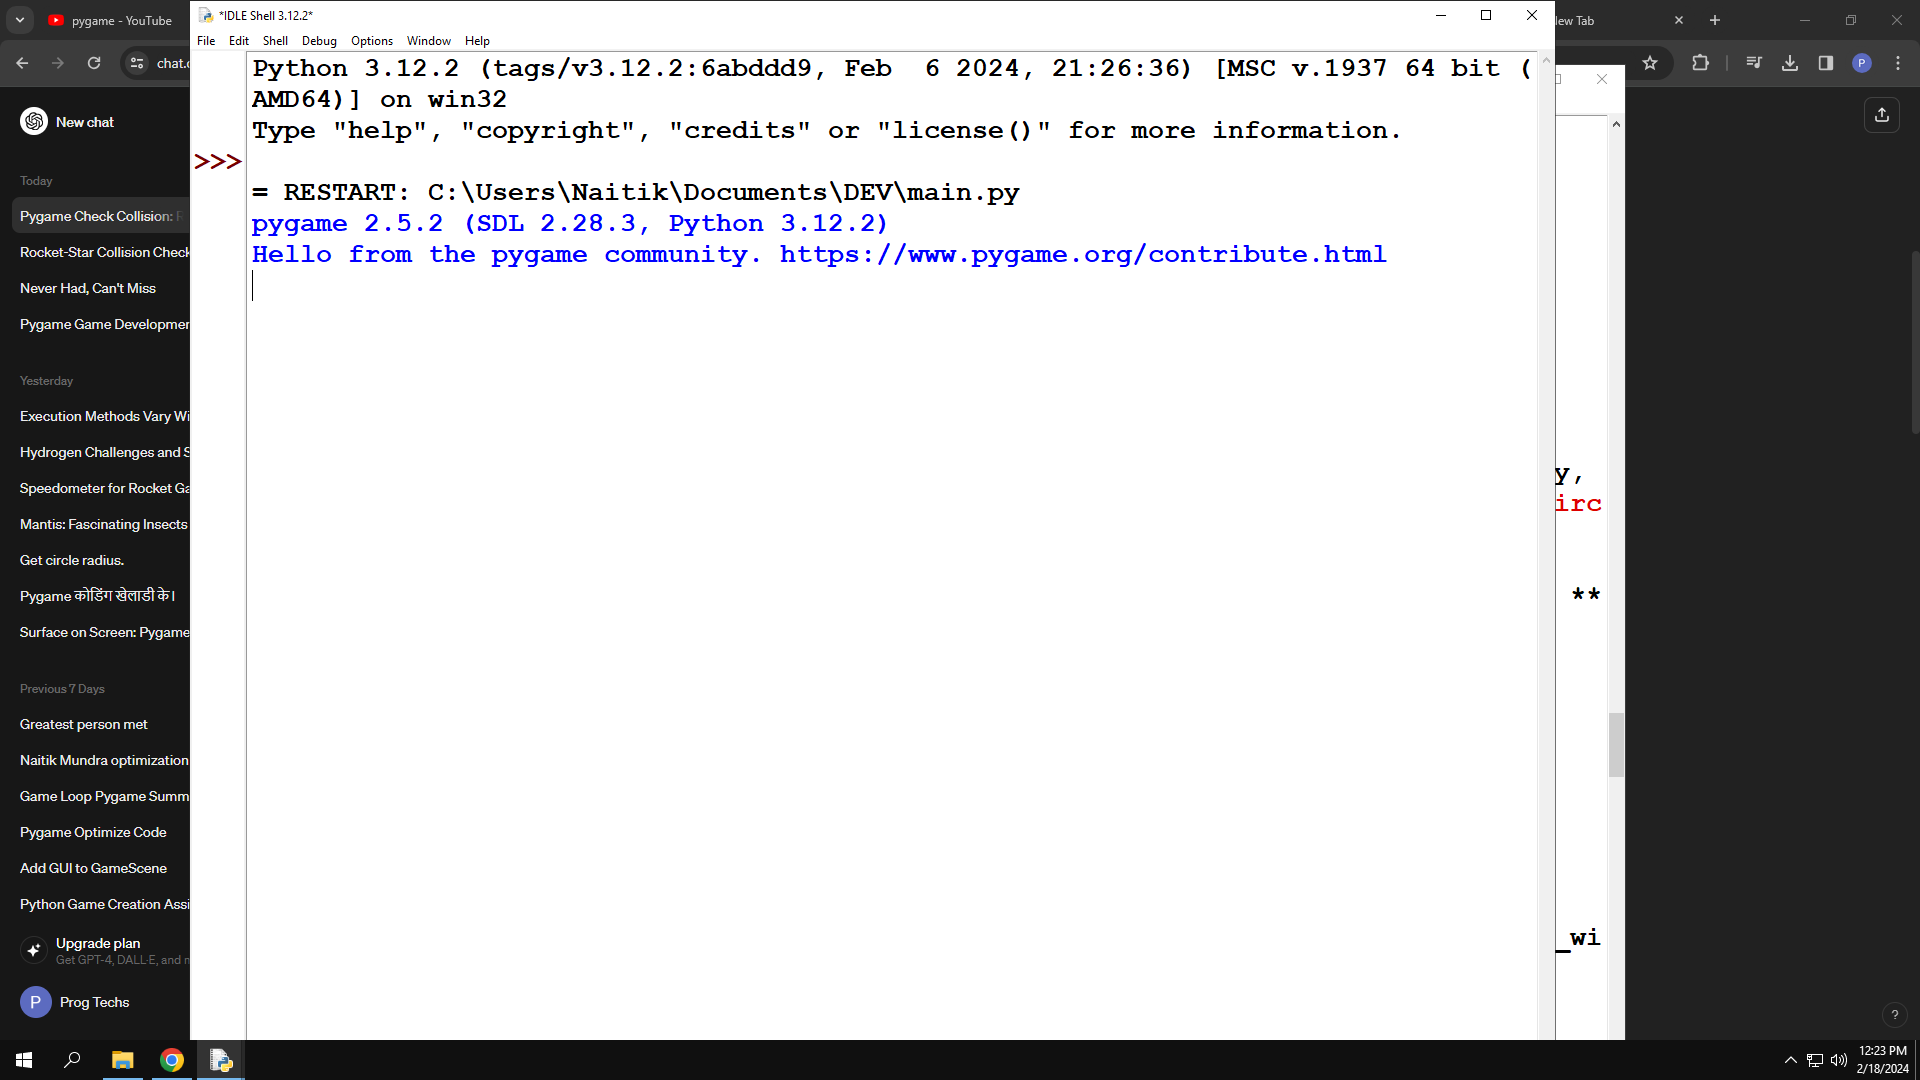
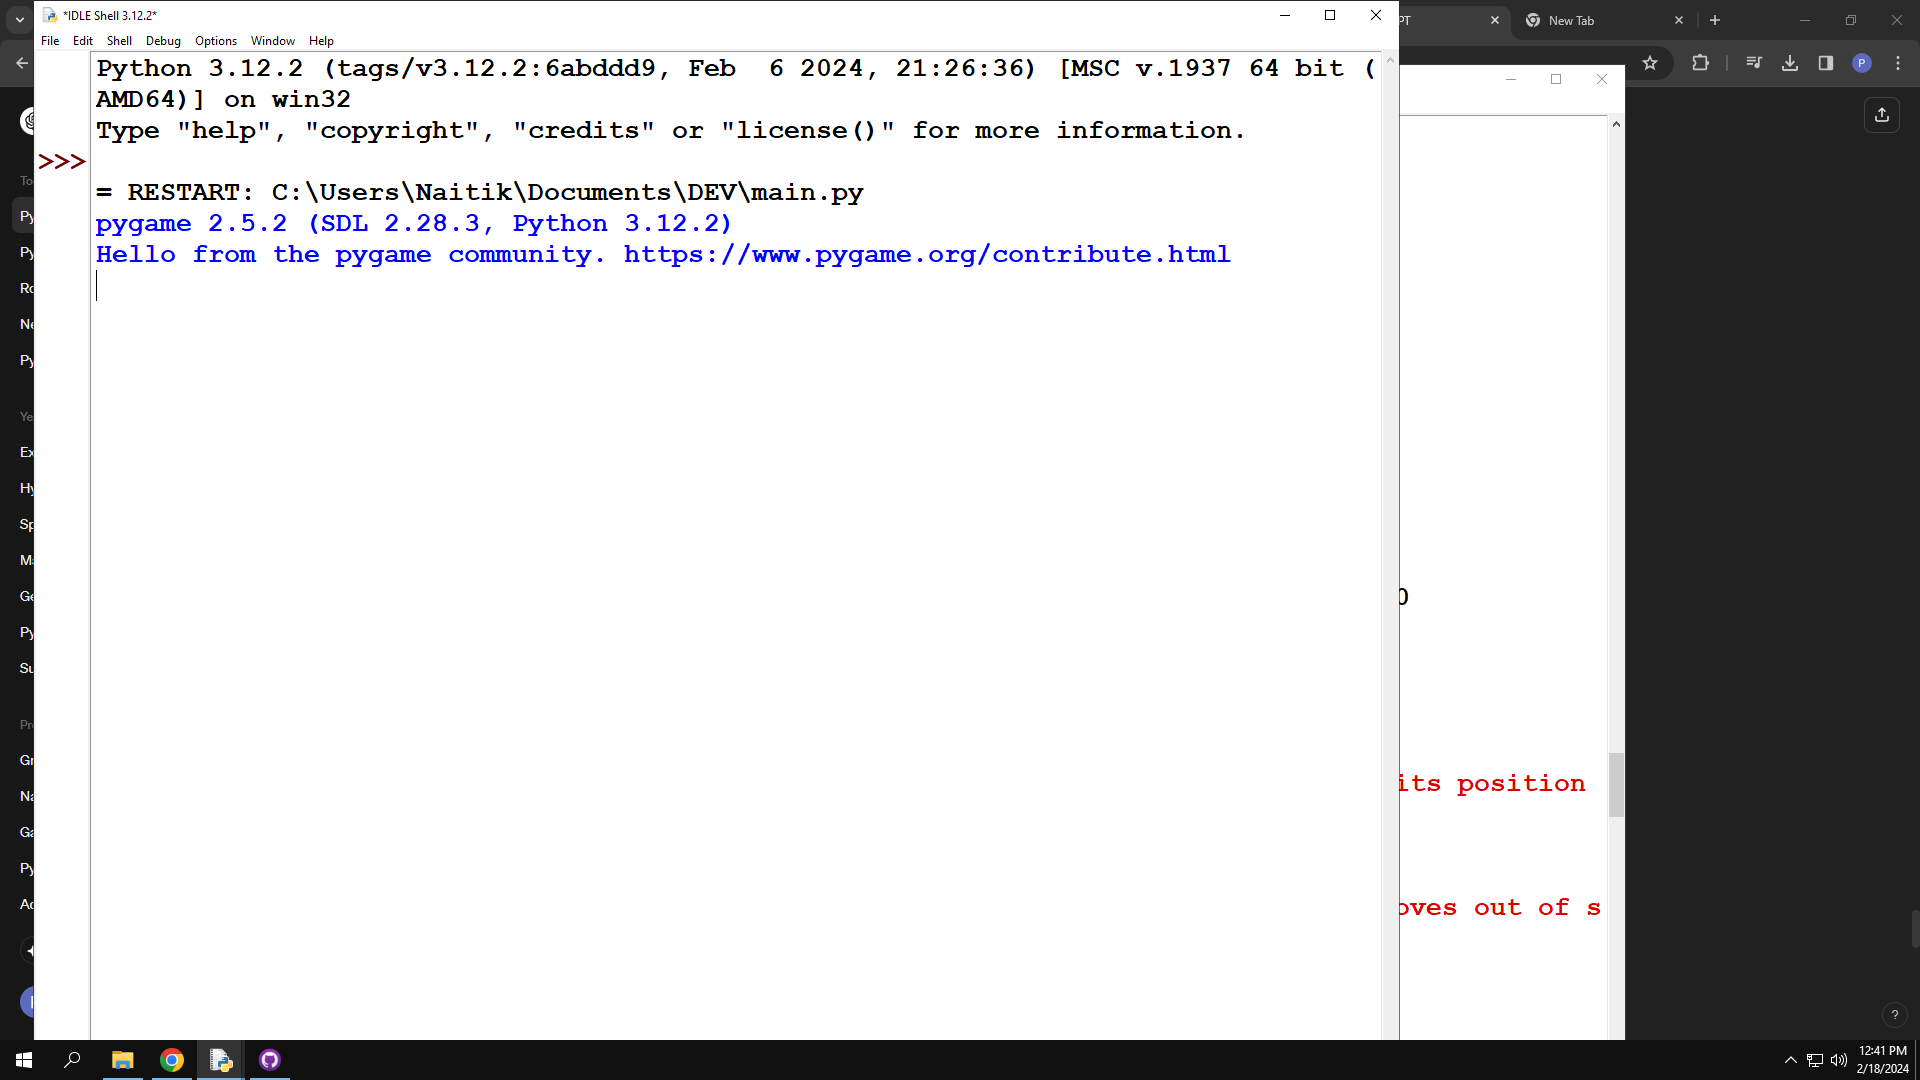
SCORE SYSTEM

diff --git a/main.py b/main.py
@@ -339,7 +339,8 @@ class GameScene:
         self.alert_sound.set_volume(0.9)  # Adjust the volume of the alert sound
 
         # Adjust the volume of the rocket exhaust sound
-        self.rocket_exhaust_sound.set_volume(0.5) 
+        self.rocket_exhaust_sound.set_volume(0.5)
+        self.distance_travelled= 0
     def draw_speedometer(self):
         # Calculate the angle of rotation based on the rocket's velocity
         angle = self.rocket_velocity / self.max_velocity * 90  # Convert velocity to angle (assuming 0 to 90 degrees)
@@ -391,6 +392,8 @@ class GameScene:
         fps = str(int(self.clock.get_fps()))
         fps_t = self.font.render(fps , 1, pygame.Color("RED"))
         self.screen.blit(fps_t,(0,0))
+        score = self.font.render(str(int(self.distance_travelled)) , 1, pygame.Color("YELLOW"))
+        self.screen.blit(score,(0,20))
     def draw_gui(self):
         if self.rocket_on:
             self.screen.blit(self.gui_image, self.gui_rect)
@@ -429,14 +432,24 @@ class GameScene:
             if self.rocket_moving_up: #change star movement to create miraj
                 star.rocket = True
                 star.speed = self.rocket_velocity
+                    
+                    
+            
             else:
                 
                 if self.rocket_velocity < 0:
                     star.rocket = False
                     star.speed = -self.rocket_velocity
+                    
                 else:
                     
                         star.speed = self.rocket_velocity
+            if self.rocket_velocity < 0:
+                
+                self.distance_travelled +=self.rocket_velocity
+            else:
+                self.distance_travelled +=self.rocket_velocity
+   
             if self.rocket_y < self.screen.get_height() - 350:
                 
                 self.rocket_abovethreshold = True
